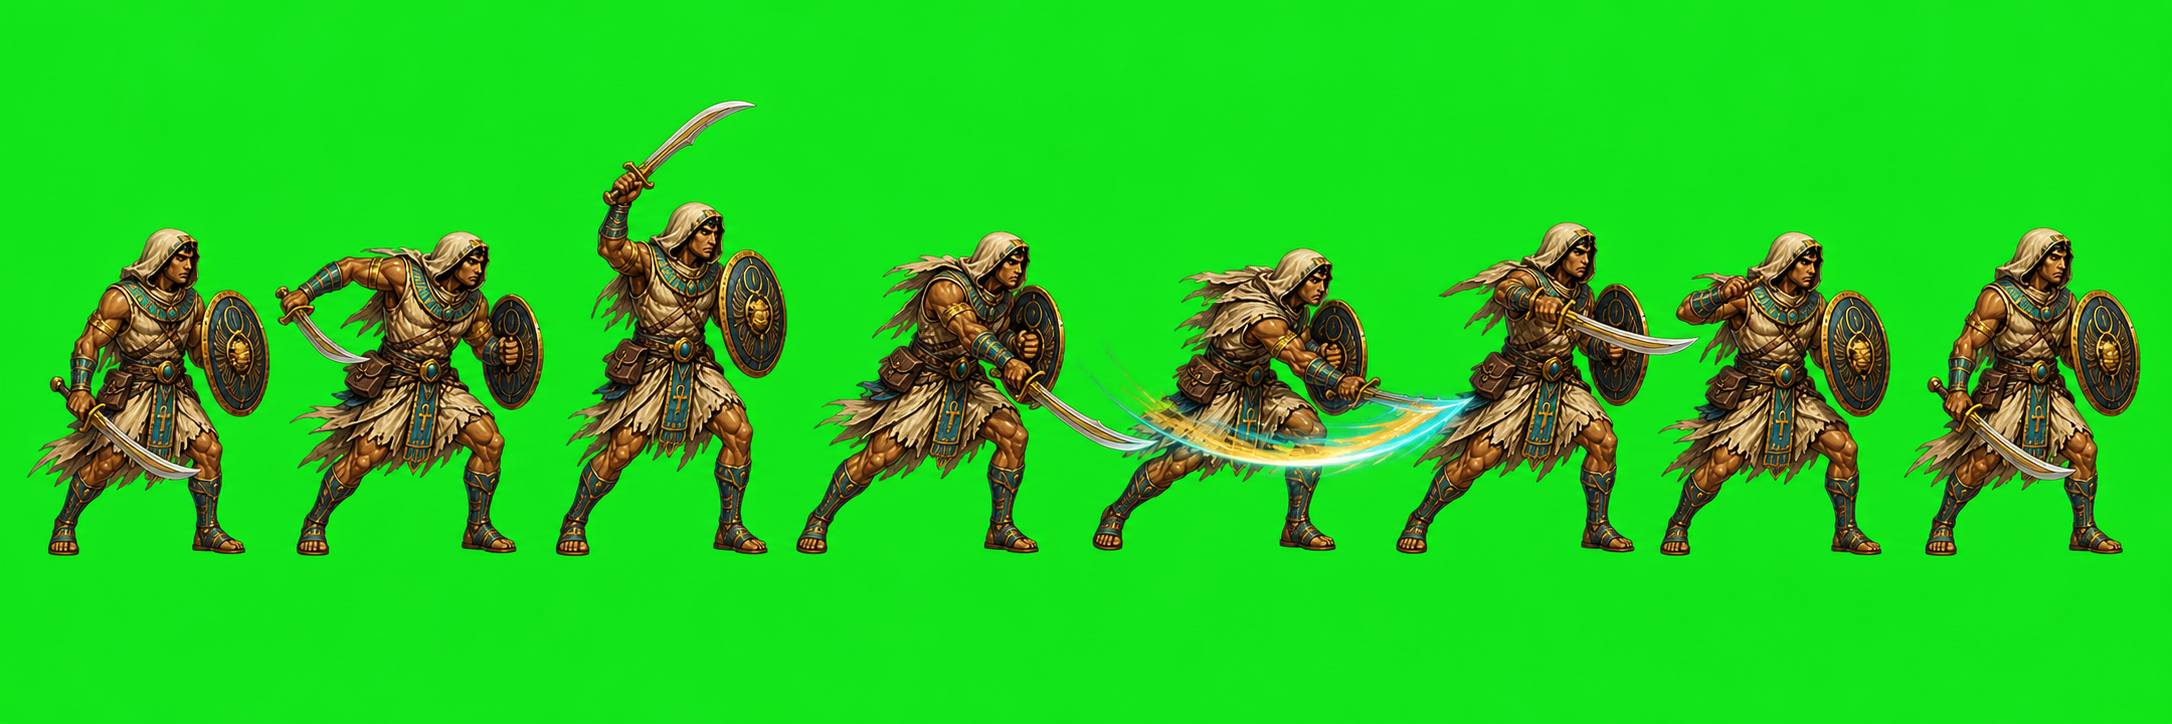
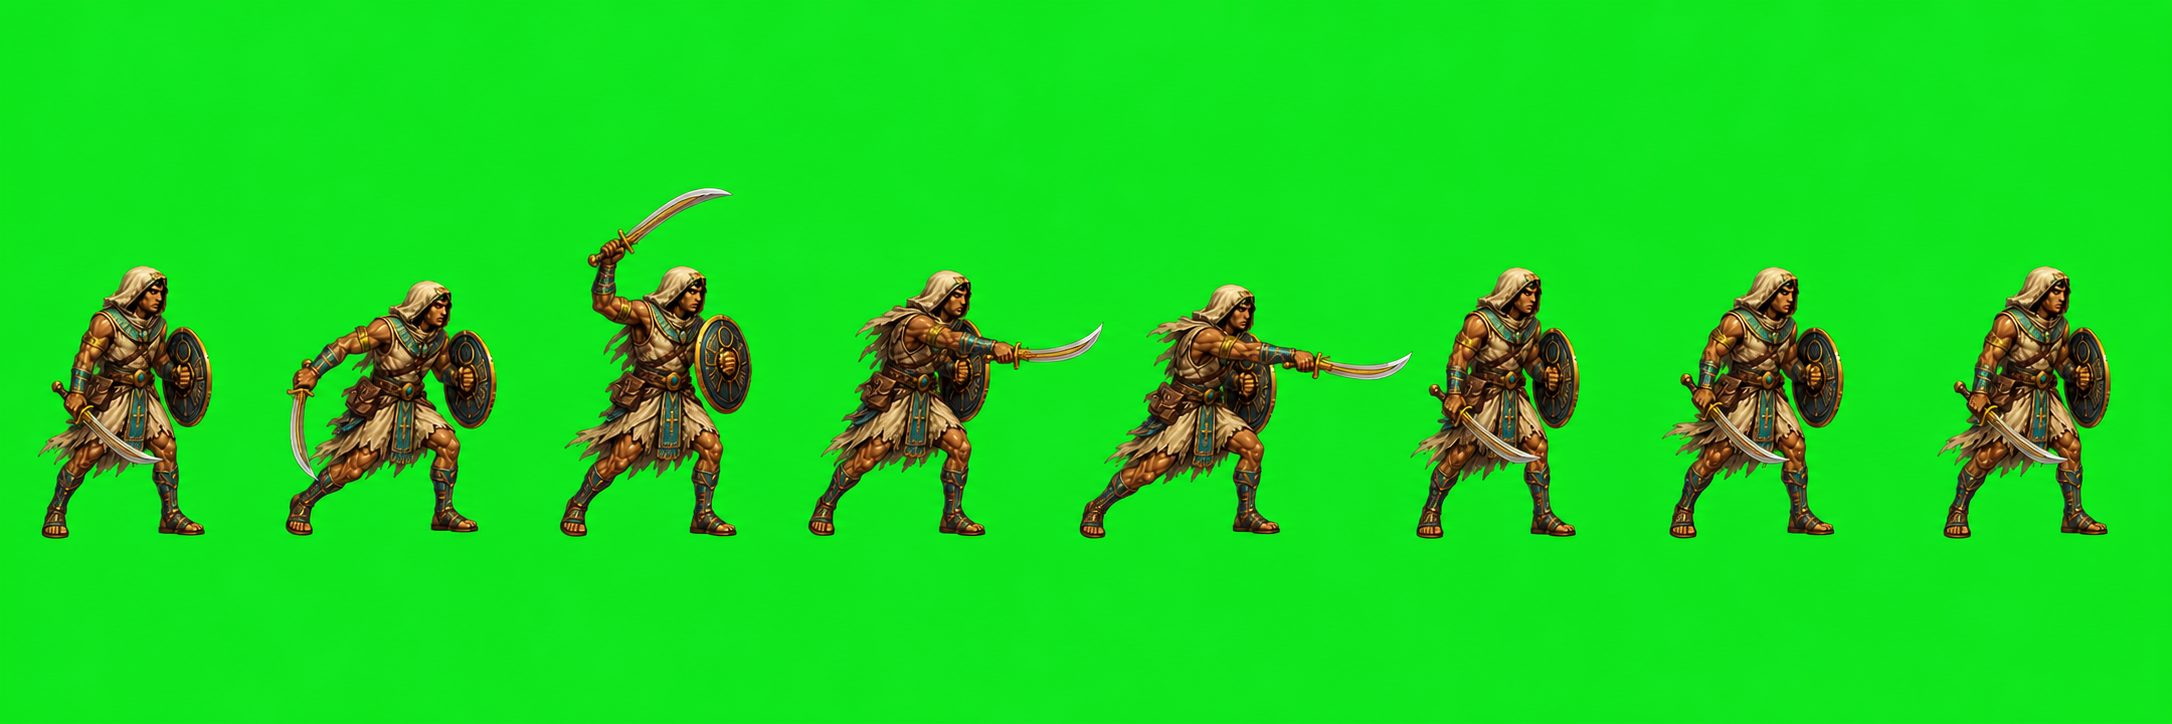
Fix Asha sprint and attack atlas packing

Changed region(s): [[0.0, 0.1215, 0.9871, 0.7901]]

diff --git a/scripts/rebuild_hooded_asha_atlas.py b/scripts/rebuild_hooded_asha_atlas.py
@@ -213,6 +213,56 @@ def sheet_cell(source: Image.Image, *, rows: int, row: int, column: int) -> Imag
     return source.crop((left, top, right, bottom))
 
 
+def visible_component_cells(source: Image.Image, *, expected_count: int) -> list[Image.Image]:
+    rgba = source.convert("RGBA")
+    alpha = rgba.getchannel("A").point(lambda value: 255 if value > 72 else 0)
+    width, height = rgba.size
+    seen = bytearray(width * height)
+    alpha_pixels = alpha.load()
+    components: list[tuple[int, int, int, int, int]] = []
+
+    for start_y in range(height):
+        for start_x in range(width):
+            start_index = start_y * width + start_x
+            if seen[start_index] or alpha_pixels[start_x, start_y] == 0:
+                continue
+            queue = [(start_x, start_y)]
+            seen[start_index] = 1
+            count = 0
+            min_x = max_x = start_x
+            min_y = max_y = start_y
+            for x, y in queue:
+                count += 1
+                min_x = min(min_x, x)
+                max_x = max(max_x, x)
+                min_y = min(min_y, y)
+                max_y = max(max_y, y)
+                for nx, ny in ((x + 1, y), (x - 1, y), (x, y + 1), (x, y - 1)):
+                    if 0 <= nx < width and 0 <= ny < height:
+                        index = ny * width + nx
+                        if not seen[index] and alpha_pixels[nx, ny] != 0:
+                            seen[index] = 1
+                            queue.append((nx, ny))
+            if count > 500:
+                components.append((count, min_x, min_y, max_x + 1, max_y + 1))
+
+    components = sorted(components, key=lambda component: component[1])
+    if len(components) != expected_count:
+        raise ValueError(f"Expected {expected_count} sprite components, found {len(components)}")
+
+    cells = []
+    for _count, left, top, right, bottom in components:
+        pad = 10
+        box = (
+            max(0, left - pad),
+            max(0, top - pad),
+            min(width, right + pad),
+            min(height, bottom + pad),
+        )
+        cells.append(rgba.crop(box))
+    return cells
+
+
 def attack_source_cell(source: Image.Image, source_column: int) -> Image.Image:
     cell = sheet_cell(source, rows=1, row=0, column=source_column)
     return keep_largest_visible_component(remove_chroma_green_background(cell))
@@ -250,8 +300,10 @@ def main() -> None:
     source_image = Image.open(UTILITY_SOURCE_PNG).convert("RGBA")
     locomotion_source = remove_chroma_green_background(remove_checkerboard_background(Image.open(LOCOMOTION_SOURCE)))
     sprint_source = remove_chroma_green_background(Image.open(SPRINT_SOURCE))
+    sprint_cells = visible_component_cells(sprint_source, expected_count=8)
     air_source = remove_chroma_green_background(Image.open(AIR_SOURCE))
     attack_source = Image.open(ATTACK_SOURCE).convert("RGBA")
+    attack_cells = visible_component_cells(remove_chroma_green_background(attack_source), expected_count=8)
     cell_w = utility_metadata["frame"]["width"]
     cell_h = utility_metadata["frame"]["height"]
     ground_line_y = utility_metadata["frame"]["groundLineY"]
@@ -311,7 +363,7 @@ def main() -> None:
 
     for column in range(8):
         target_key = frame_key("run", column)
-        sprite = keep_largest_visible_component(sheet_cell(sprint_source, rows=1, row=0, column=column))
+        sprite = keep_largest_visible_component(sprint_cells[column])
         rebuilt_regions[target_key] = paste_sprite_cell(
             rebuilt_image,
             sprite,
@@ -341,7 +393,7 @@ def main() -> None:
 
     for column, source_column in enumerate(ATTACK_SOURCE_COLUMNS):
         target_key = frame_key("attack_pick_swing", column)
-        sprite = attack_source_cell(attack_source, source_column)
+        sprite = keep_largest_visible_component(attack_cells[source_column])
         rebuilt_regions[target_key] = paste_sprite_cell(
             rebuilt_image,
             sprite,
